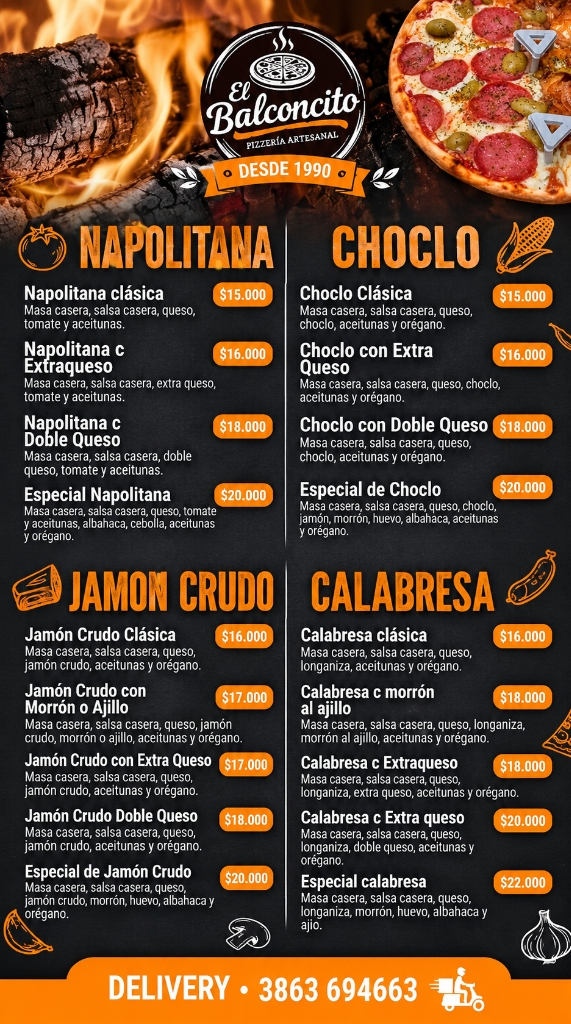
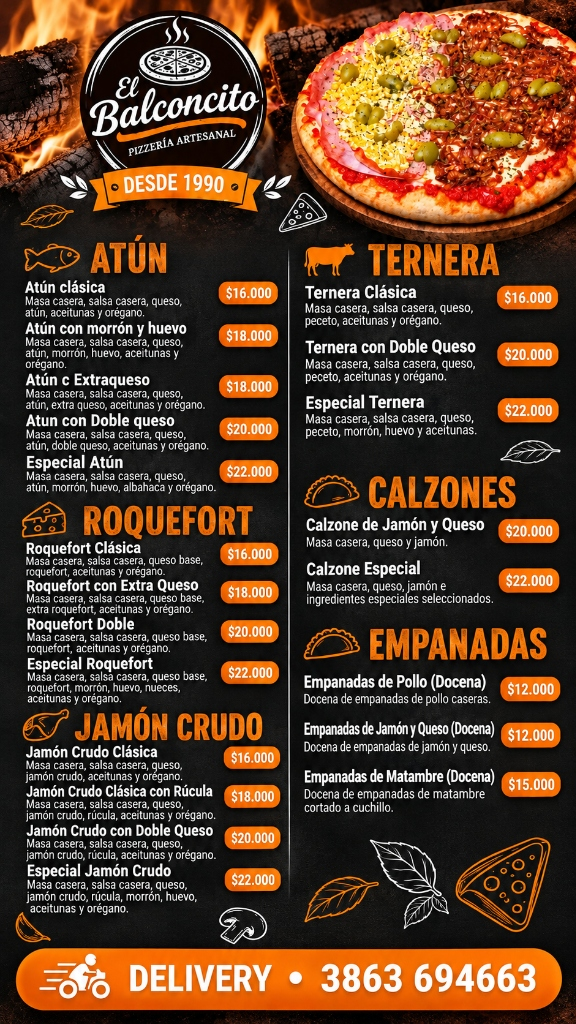
Actualizar imágenes de la carta con calzones, roquefort y jamón crudo
Generated with [Devin](https://devin.ai)

diff --git a/index.html b/index.html
@@ -496,9 +496,9 @@ main .galeria-pista .tactil{display:none}
   <div class="wrap">
     <h2 data-r>Nuestra carta</h2>
     <ul class="carta" data-r>
-      <li><a href="assets/carta-1.jpg" target="_blank" rel="noopener"><img src="assets/carta-1.jpg" width="571" height="1024" loading="lazy" decoding="async" alt="Carta: pizzas Napolitana, Choclo, Jamón crudo y Calabresa con precios"></a></li>
-      <li><a href="assets/carta-2.jpg" target="_blank" rel="noopener"><img src="assets/carta-2.jpg" width="571" height="1024" loading="lazy" decoding="async" alt="Carta: pizzas Caseritas y Fugazzetas con precios"></a></li>
-      <li><a href="assets/carta-3.jpg" target="_blank" rel="noopener"><img src="assets/carta-3.jpg" width="571" height="1024" loading="lazy" decoding="async" alt="Carta: pizzas de Atún y Ternera, y empanadas con precios"></a></li>
+      <li><a href="assets/carta-1.jpg" target="_blank" rel="noopener"><img src="assets/carta-1.jpg" width="576" height="1024" loading="lazy" decoding="async" alt="Carta: pizzas Napolitana, Choclo, Jamón y Calabresa con precios"></a></li>
+      <li><a href="assets/carta-2.jpg" target="_blank" rel="noopener"><img src="assets/carta-2.jpg" width="576" height="1024" loading="lazy" decoding="async" alt="Carta: pizzas Caseritas y Fugazzetas con precios"></a></li>
+      <li><a href="assets/carta-3.jpg" target="_blank" rel="noopener"><img src="assets/carta-3.jpg" width="576" height="1024" loading="lazy" decoding="async" alt="Carta: pizzas de Atún, Roquefort, Jamón crudo y Ternera, calzones y empanadas con precios"></a></li>
     </ul>
     <div class="horarios" data-r>
       <h3>Horarios de atención</h3>
